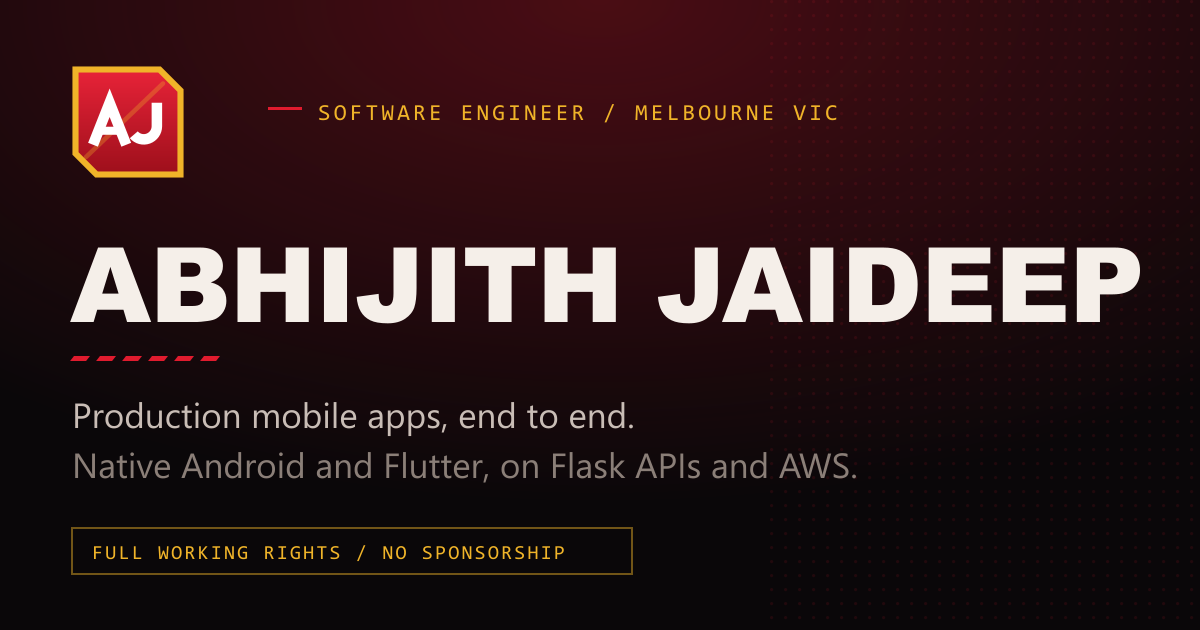
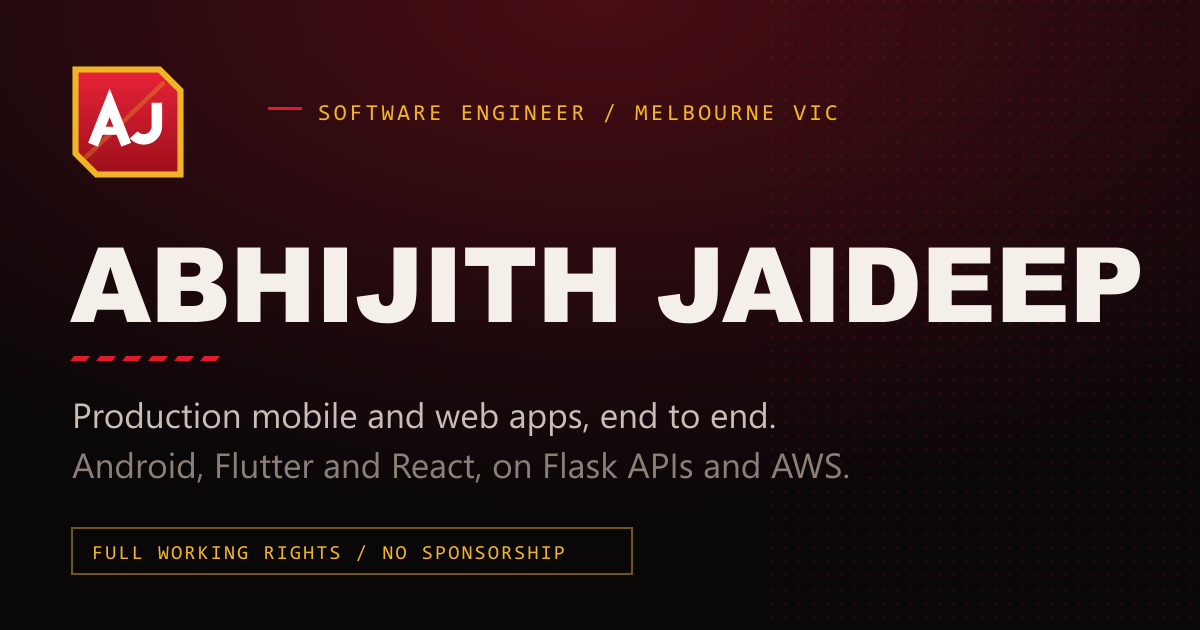
Say mobile and web, not mobile only
The positioning claimed mobile apps throughout, but the work on show is
already both: ParkingBae and Sales Call Prioritisation are React and Flask
web apps, and SustainaPet pairs a Flutter client with a Flask backend.
Leading with mobile alone was underselling half of it and would filter out
web roles.

Updated the headline claim, page title, meta description, the hero tag, and
the focus line. The Open Graph card is regenerated to match, so link
previews do not keep advertising the narrower version.

Changed region(s): [[0.0617, 0.6937, 0.7092, 0.7841], [0.3083, 0.6333, 0.6475, 0.6937]]

diff --git a/src/data/content.ts b/src/data/content.ts
@@ -1,7 +1,7 @@
 export const profile = {
   name: "Abhijith Jaideep",
   role: "Software Engineer",
-  focus: "Mobile Development · Full-Stack · Cloud",
+  focus: "Mobile · Web · Full-Stack · Cloud",
   location: "Melbourne, VIC",
   workRights: "Full working rights in Australia, no sponsorship required",
   email: "abhijithjaideep176@gmail.com",
@@ -14,7 +14,7 @@ export const profile = {
 };
 
 export const uvp =
-  "I ship production mobile apps end-to-end, from native Android and Flutter front-ends to the Flask APIs and AWS infrastructure behind them.";
+  "I ship production mobile and web apps end-to-end, from native Android, Flutter and React front-ends to the Flask APIs and AWS infrastructure behind them.";
 
 export const heroMetrics = [
   { value: "Monash", label: "Master of Information Technology" },

diff --git a/src/app/layout.tsx b/src/app/layout.tsx
@@ -19,9 +19,9 @@ const bebasNeue = Bebas_Neue({
 });
 
 const SITE_URL = "https://abhijith-jaideep.vercel.app";
-const TITLE = "Abhijith Jaideep | Software Engineer, Mobile & Full-Stack";
+const TITLE = "Abhijith Jaideep | Software Engineer, Mobile & Web";
 const DESCRIPTION =
-  "Software Engineer based in Melbourne building production mobile apps end-to-end: native Android, Flutter, Flask APIs, and AWS infrastructure. Full working rights, no sponsorship required.";
+  "Software Engineer based in Melbourne building production mobile and web apps end-to-end: native Android, Flutter, React, Flask APIs, and AWS infrastructure. Full working rights, no sponsorship required.";
 
 // og:image and twitter:image are injected automatically from
 // src/app/opengraph-image.png, so they are not declared here.

diff --git a/src/components/Hero.tsx b/src/components/Hero.tsx
@@ -46,7 +46,7 @@ export function Hero() {
               <span className="tag-pill tag-pill-gold">
                 {profile.workRights}
               </span>
-              <span className="tag-pill">Mobile first / Full-stack second</span>
+              <span className="tag-pill">Mobile and web / Full-stack</span>
             </div>
           </Reveal>
 
